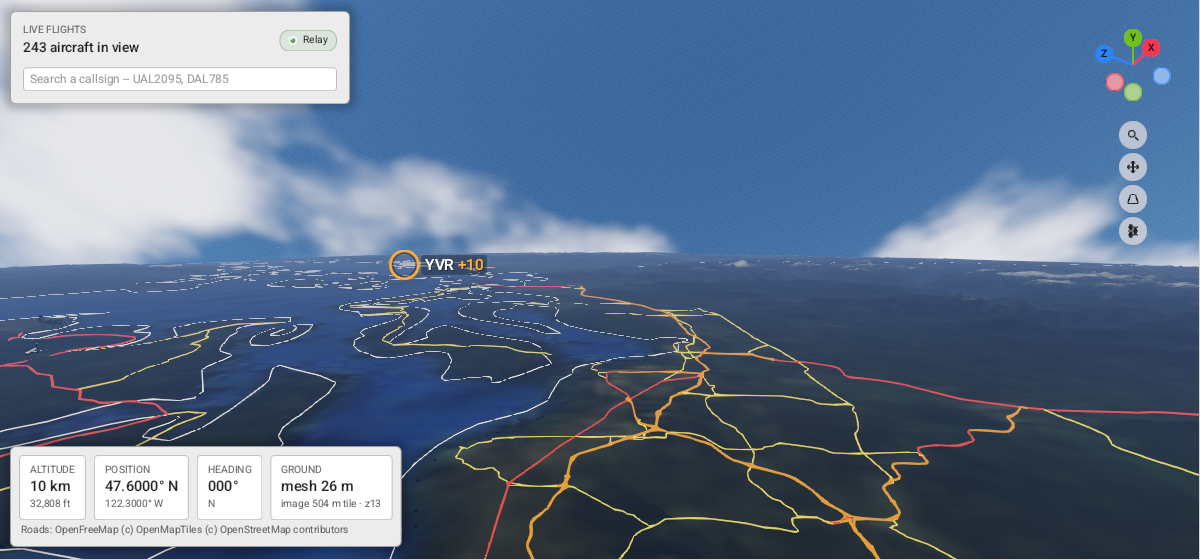
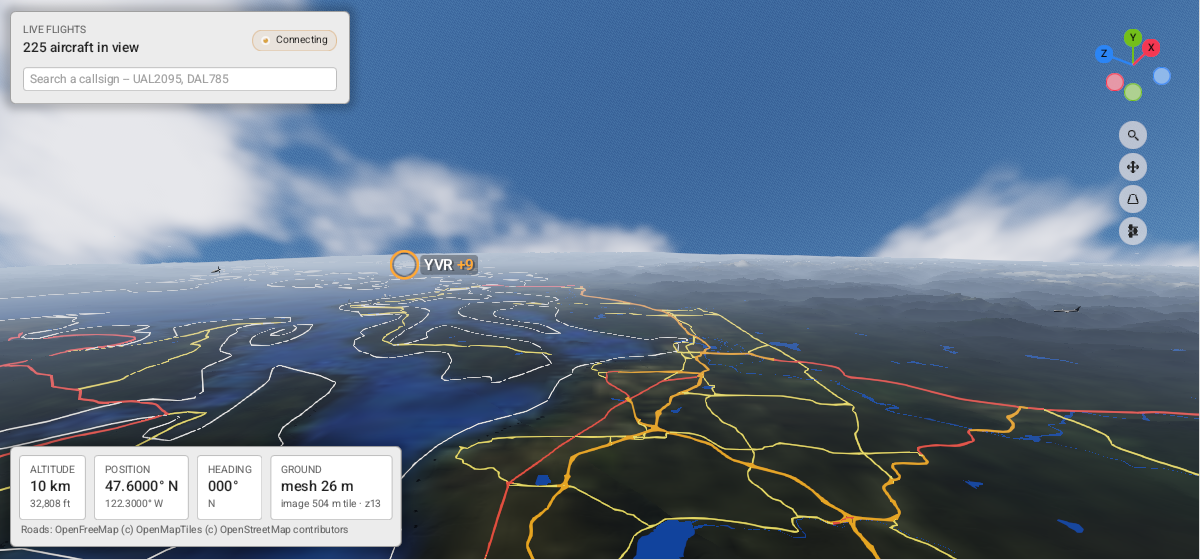
Planet haze as distance fog: the air's depth squared, so the near ground stays clear and the far fades into a paler sky colour

diff --git a/ManaGraphics/Code/Graphics/WebGPU/Resources/ManaWebGpuUniforms.cs b/ManaGraphics/Code/Graphics/WebGPU/Resources/ManaWebGpuUniforms.cs
@@ -132,8 +132,8 @@ namespace ManaGraphics.Code.Graphics.Resources
             {
                 towardSun = Vector3.Normalize(towardSun);
             }
-            // The sky's blue, about as bright as the sunlit ground under it (the satellite picture is dark).
-            var colour = new Vector3(0.30f, 0.45f, 0.80f) * sunLight * 0.22f;
+            // Pale, as the sky is near the horizon, so the far ground fades into it.
+            var colour = new Vector3(0.50f, 0.62f, 0.85f) * sunLight * 0.45f;
             uniform.HazeColor = new Vector4(colour, HazePerMetre * metresPerUnit);
             uniform.HazePlanet = planet;
             uniform.HazeSun = new Vector4(towardSun, HazeScaleHeightMetres / metresPerUnit);
